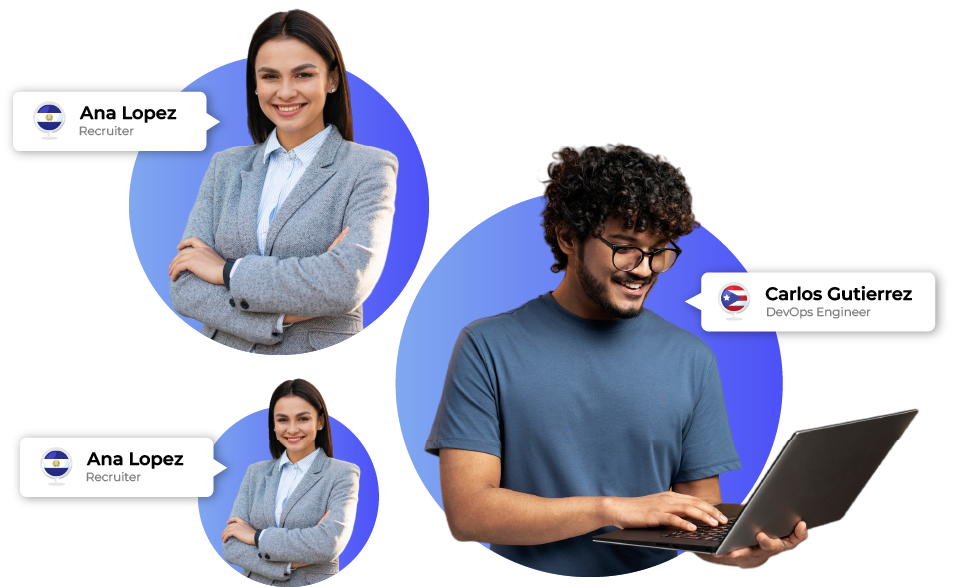
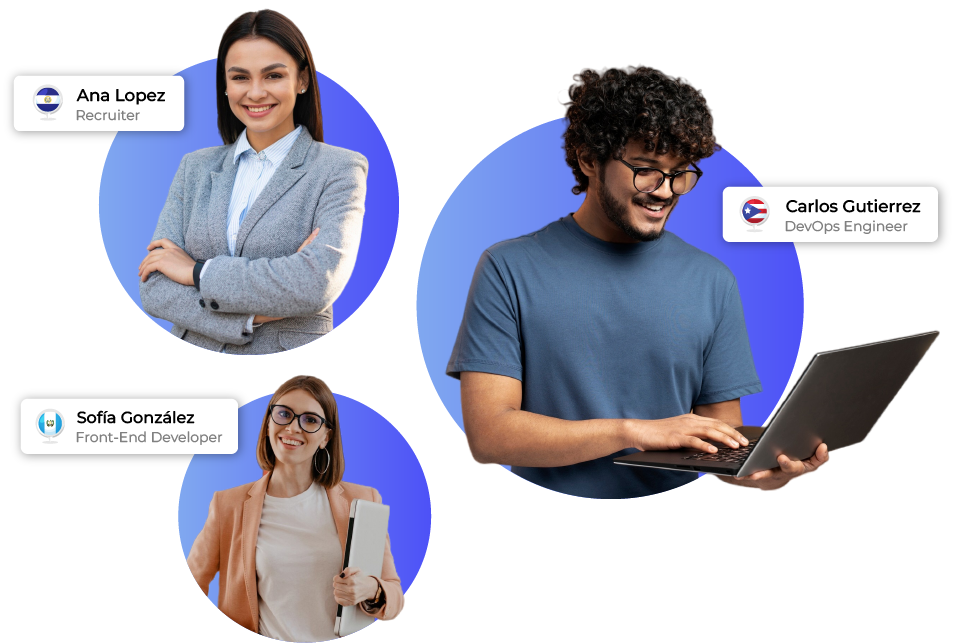
cambios 4

diff --git a/index.html b/index.html
@@ -40,7 +40,7 @@
             <a href="#"><img src="./Assets/logos/Lana/logo-lana-gradient.png" alt="logo"></a>
           </div>
           <ul class="navbar-links">
-            <li><a href="##">Our services</a></li>
+            <li><a href="#">Our services</a></li>
             <li><a href="#">How it works</a></li>
             <li><a href="#">Why Lana</a></li>
             <li><a href="#">Who we are</a></li>
@@ -66,7 +66,7 @@
             <h6>We connect companies with top Latin American talent, ensuring not just the right skills, but the right cultural fit to drive your business forward. All at a fraction of the cost, maximizing your growth potential.</h4>
             <a href=""> <button type="button" class="btn btn-primary">Start Hiring</button></a>      
           </div>
-          <div class="hero-image"> <img src="./Assets/img/Hero/hero3.png" alt=""></div>
+          <div class="hero-image"> <img src="./Assets/img/Hero/hero1.png" alt=""></div>
       </div>
 
       <!-- End Hero -->
@@ -84,14 +84,14 @@
                     <img src="./Assets/icons/Value-propotition/ico1b.png" class="card-img-top" alt="icon">
                     <div class="card-body">
                       <h4><b>Top Talent </b></h4>
-                      <p class="card-text">Home +25.000 start-ups and 15 unicorns valued at $60 billion, Latin America is a global leader in industries like software development, finance, and BPO (Business Process Outsourcing).</p>
+                      <p class="card-text">Home <b style="color: #4d51f7;">+25.000 start-ups</b> and 15 unicorns valued at <b style="color: #4d51f7;">$60 billion</b>, Latin America is a global leader in industries like software development, finance, and BPO (Business Process Outsourcing).</p>
                     </div>
                   </div>
                   <div class="card border-0" style="width: 18rem;">
                     <img src="./Assets/icons/Value-propotition/ico2.png" class="card-img-top" alt="icon">
                     <div class="card-body">
                       <h4><b>Cultural Aligment</b></h4>
-                      <p class="card-text">Additional to the overlapping time-zone and high english proficiency amongst professionals, talent in Latin America has a strong cultural affinity with the U.S.</p>
+                      <p class="card-text">Additional to the <b style="color: #4d51f7;">overlapping time-zone</b> and<b style="color: #4d51f7;"> high english proficiency</b> amongst professionals, talent in Latin America has a <b style="color: #4d51f7;"> strong cultural affinity</b> with the U.S.</p>
                     </div>
                   </div>
 
@@ -99,7 +99,7 @@
                     <img src="./Assets/icons/Value-propotition/ico3.png" class="card-img-top" alt="icon">
                     <div class="card-body">
                       <h4><b>Lower Costs</b></h4>
-                      <p class="card-text">With Highly skilled professionals at a fraction of the cost, companies can save up to 70% on labor costs compared to U.S. salaries. <br><br></p>
+                      <p class="card-text">With Highly skilled professionals at a fraction of the cost, companies can <b style="color: #4d51f7;"> save up to 70% on labor costs</b> compared to U.S. salaries. <br><br></p>
                     </div>
                   </div>
 
@@ -113,7 +113,7 @@
       <!-- Services -->
       <section class="Services">
           <div class="image-container">
-              <img src="./Assets/icons/Services/ico1.png" alt="Descripción de la imagen">
+              <img src="./Assets/img/Services/services2.png" alt="Descripción de la imagen">
           </div>
           <div class="Services__text_container">
             <h1 data-aos="fade-left" data-aos-duration="800">Our Services</h1>
@@ -248,7 +248,7 @@
                   <h1 class="display-1"> 01</h1>
                 </div>
                 <div class="card-body">
-                  <p>Leverage our <b style="color: #99A0E7;">network of over 100 recruiters</b> to quickly find top talent looking for new challenges.</p>
+                  <p>Leverage our <b style="color: #060031;">network of over 100 recruiters</b> to quickly find top talent looking for new challenges.</p>
                 </div>
               </div>
   
@@ -257,7 +257,7 @@
                   <h1 class="display-1"> 02</h1>
                 </div>
                 <div class="card-body">
-                  <p>We do <b style="color: #99A0E7;">deep cultural assessment</b> to make sure you don't only get the right skills but the right person.</p>
+                  <p>We do <b style="color: #060031;">deep cultural assessment</b> to make sure you don't only get the right skills but the right person.</p>
                 </div>
               </div>
   
@@ -266,7 +266,7 @@
                   <h1 class="display-1"> 03</h1>
                 </div>
                 <div class="card-body">
-                  <p>We want your <b style="color: #99A0E7;">long-term success</b> so we provide guidance and support even after hiring.</p>
+                  <p>We want your <b style="color: #060031;">long-term success</b> so we provide guidance and support even after hiring.</p>
                 </div>
               </div>
   
@@ -275,7 +275,7 @@
                   <h1 class="display-1"> 04</h1>
                 </div>
                 <div class="card-body">
-                  <p><b style="color: #99A0E7;">You pay if we deliver.</b> Don't take our word for it, we have so much trust in our ability to deliver, that you'll only have to pay if we're successful.</p>
+                  <p><b style="color: #060031;">You pay if we deliver.</b> Don't take our word for it, we have so much trust in our ability to deliver, that you'll only have to pay if we're successful.</p>
                 </div>
               </div>
         </div>

diff --git a/css/benefits.css b/css/benefits.css
@@ -3,7 +3,7 @@
     width: 100%;
     display: flex;
     flex-direction: row;
-    background-color:#ffffff;
+    background-color:#8076f0;
     padding: 100px;
     text-align: center;
     align-items: center;
@@ -17,10 +17,11 @@
     justify-content: space-around;
     padding-top: 20px;
 
+
 }
 
 .Benefits__number{
-    background-color: white;
+    background-color: transparent;
     border-radius: 5px;
     height: 100px;
     width: 260px;
@@ -28,7 +29,7 @@
     flex-direction: column;
     align-items: center;
     justify-content: center;
-    color: grey;
+    color: white;
     
 
 }
@@ -40,10 +41,12 @@ width: 100px;
 #Benefits .card{
     width: min-content;
     border: none;
+    background-color: transparent;
+    color: #ffffff;
 }
 
 .Benefits__tittle{
-    color: black;
+    color: #ffffff;
     font-weight: 800;
     padding-bottom: 50px;
     font-size: 4rem;

diff --git a/css/hero.css b/css/hero.css
@@ -22,7 +22,7 @@
 }
 
 .hero-text h1 {
-    font-size: 4rem;
+    font-size: 3.5rem;
     text-align: left;
     color: #ffffff;
     font-weight: 800;
@@ -32,10 +32,9 @@
 .hero-text h6 {
     padding-bottom: 30px;
     font-size: 1.3rem;
-    max-width: 620px;
+    max-width: 560px;
+    font-weight: 300;
 }
-
-
 
 .gradient-text {
     background-image: linear-gradient(to right, #8076f0, #4d51f7);
@@ -43,7 +42,7 @@
     background-clip: text;
     color: transparent; 
     /* font-size: 2.5rem; */
-    font-size: 4rem;
+    font-size: 3.5rem;
     
 }
 
@@ -53,6 +52,7 @@ display: flex;
 justify-content: center;
 align-items: center;
 margin-right: 100px;
+padding-bottom: 50px;
 }
 
 .hero img{

diff --git a/css/services.css b/css/services.css
@@ -12,7 +12,7 @@
 }
 
 .image-container img {
-    width: 200px;
+    width: 350px;
     height: auto;
     object-fit: cover; /* Asegura que la imagen cubra completamente su contenedor */
 }

diff --git a/css/team.css b/css/team.css
@@ -32,7 +32,7 @@
 }
 
 #Team h4{
-    color: #4d51f7;
+    color: #8076f0;
     padding-bottom: 100px;
 }
 
